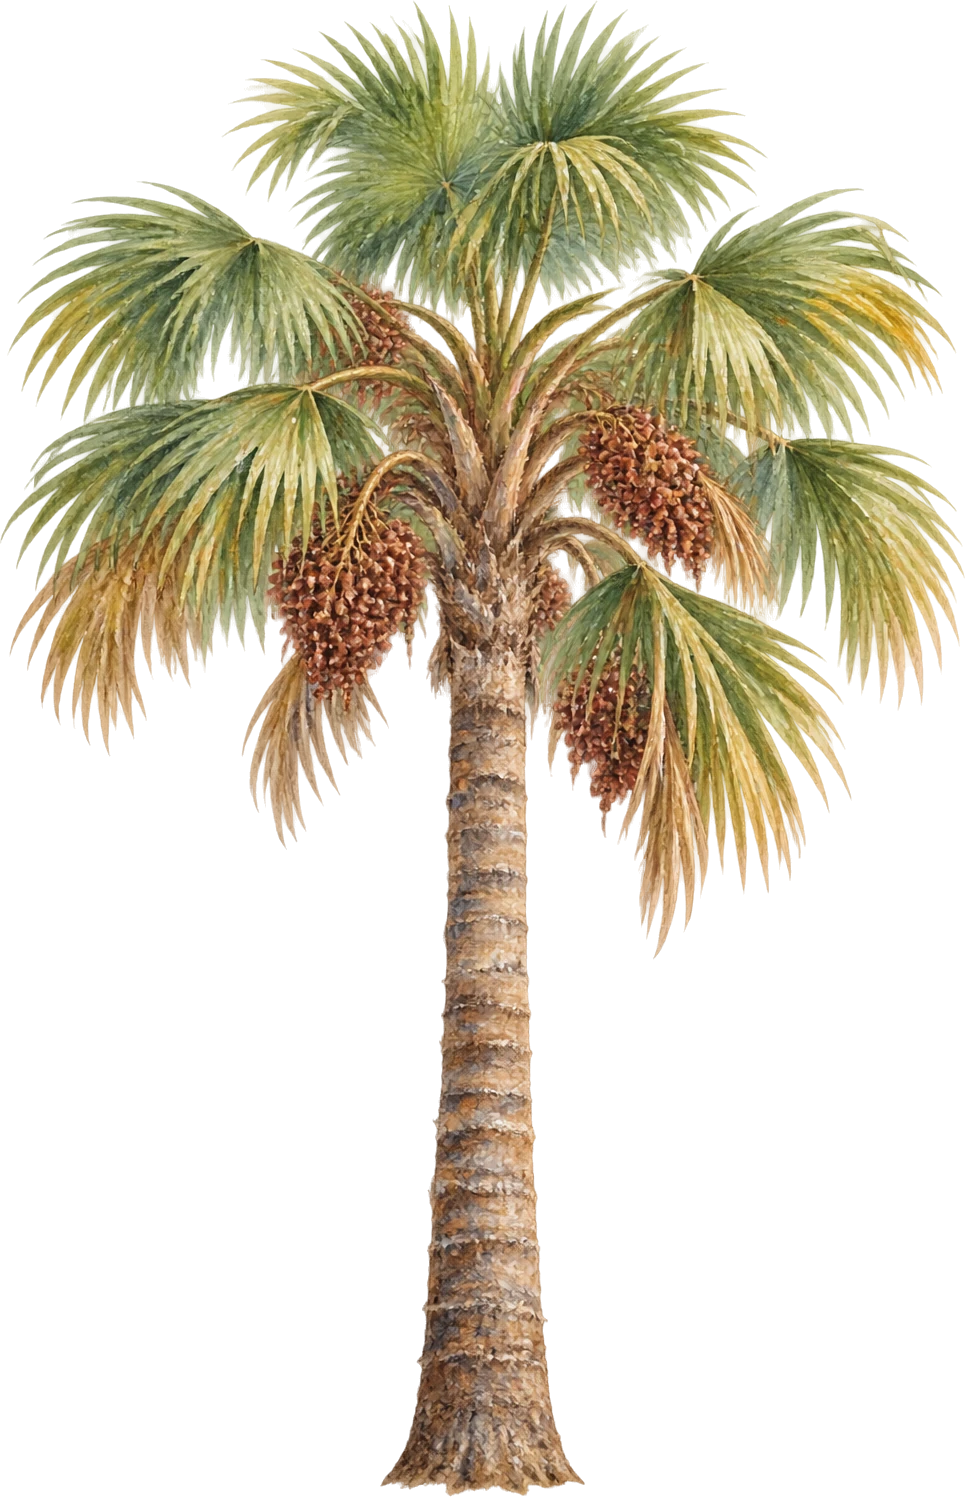
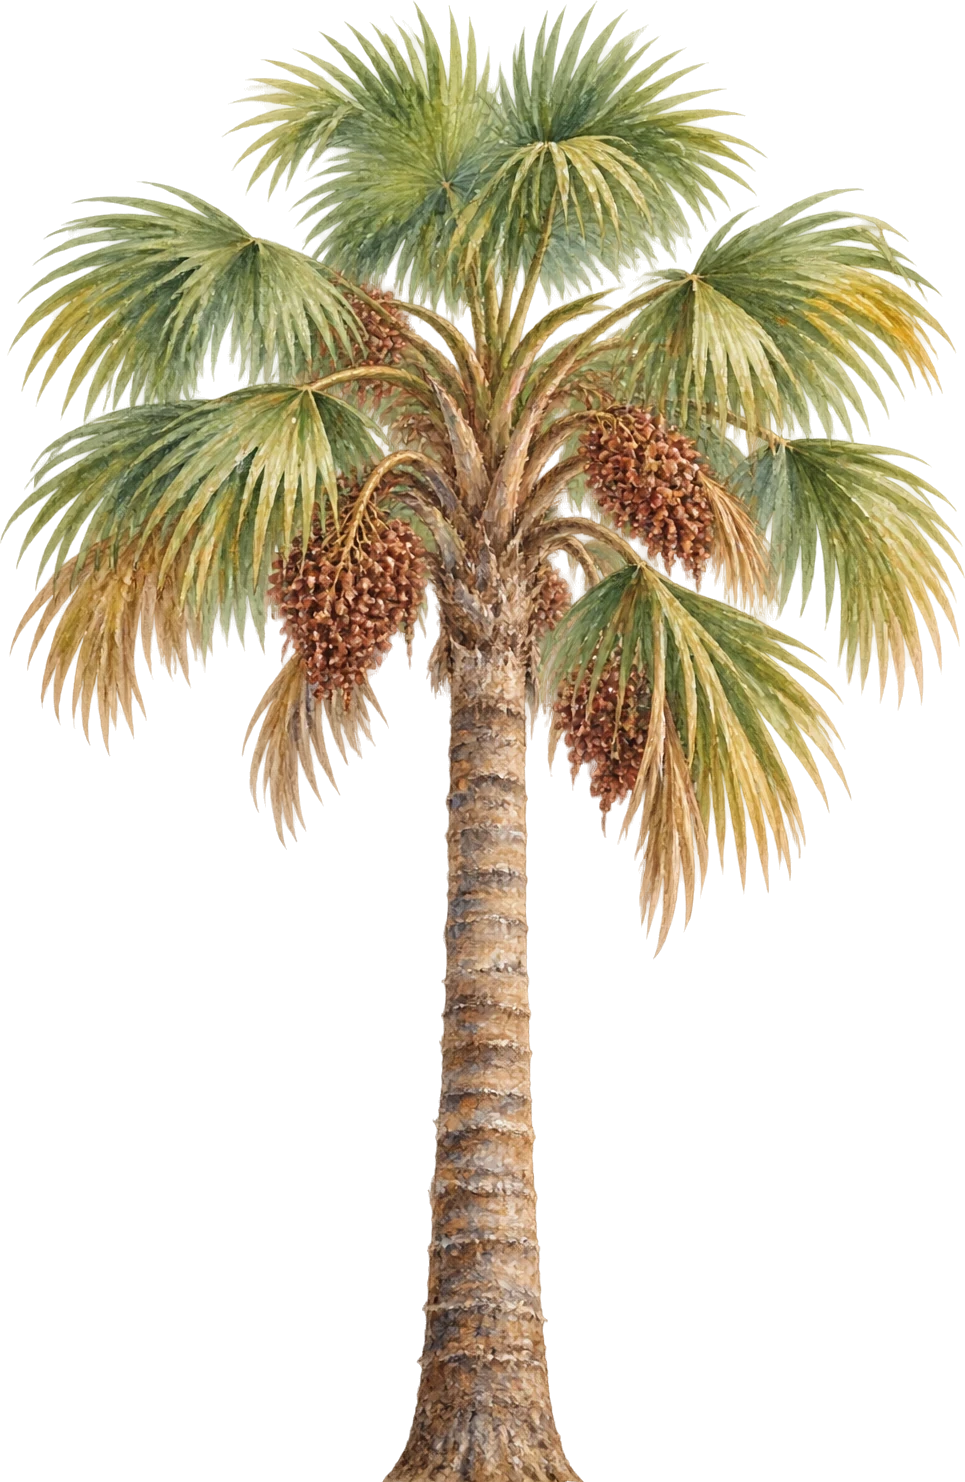
Passport: no hand-over nudge, painting to the gold rule, taller buriti
- The one-off measured nudge at the hand-over is gone: with the blot
  window laid out at its hand-over size it was no longer needed (same
  sub-pixel match without it), and measured at a bad moment it could
  shift the painting inside the centred blot.
- On the cover the painting reaches the inner gold rule at the sides and
  bottom, clipped to its rounded corners (rule measured on cover.webp);
  the rise shape grows to match, so the morph ends there.
- The buriti palm stands on the page's bottom edge at 90 % of its height,
  its trunk cut straight at the base.

Changed region(s): [[0.0, 0.031, 1.0, 1.0]]

diff --git a/src/components/sections/passport/BrasiliaPassport.tsx b/src/components/sections/passport/BrasiliaPassport.tsx
@@ -169,11 +169,6 @@ export function BrasiliaPassport({
   const riseRef = useRef<HTMLDivElement>(null)
   const blotRef = useRef<HTMLDivElement>(null)
   const paintRef = useRef<HTMLDivElement>(null)
-  const swapFix = useRef({ x: 0, y: 0, done: false })
-  // A new layout: measure the hand-over again.
-  useEffect(() => {
-    swapFix.current = { x: 0, y: 0, done: false }
-  }, [g])
   const baseRef = useRef<HTMLDivElement>(null)
   const insideRef = useRef<HTMLDivElement>(null)
   const chromeRef = useRef<HTMLDivElement>(null)
@@ -264,31 +259,7 @@ export function BrasiliaPassport({
         // The blot window: a static mask; only its scale changes.
         setMask(blotRef.current, vs.blotMasked ? MASK.blot.image : 'none', true)
         if (blotRef.current) blotRef.current.style.transform = vs.window
-        const paint = paintRef.current
-        if (paint) {
-          // Hand-over: measured once, the copy is nudged onto the stage's
-          // painting to the pixel (layout rounding differs between the two
-          // trees); the nudge fades out as the painting shrinks.
-          const fix = swapFix.current
-          if (!fix.done && v >= PHASE.swap - 2) {
-            const stage = document.querySelector<HTMLElement>(`[data-cerrado-paint]`)
-            const img = paint.querySelector('img')
-            if (stage && img) {
-              paint.style.transform = vs.paint
-              const a = stage.getBoundingClientRect()
-              const b = img.getBoundingClientRect()
-              fix.x = a.left - b.left
-              fix.y = a.top - b.top
-              fix.done = true
-            }
-          }
-          const k = 1 - vs.shrink
-          paint.style.transform =
-            k > 0 && (fix.x || fix.y)
-              ? // In the window's (scaled) space: divide by its scale.
-                `translate(${((fix.x * k) / vs.scale).toFixed(4)}px, ${((fix.y * k) / vs.scale).toFixed(4)}px) ${vs.paint}`
-              : vs.paint
-        }
+        if (paintRef.current) paintRef.current.style.transform = vs.paint
         // The rise shape, during the bleed.
         const rise = riseRef.current
         setMask(rise, vs.riseMasked ? MASK.rise.image : 'none', false)

diff --git a/src/components/sections/passport/geometry.ts b/src/components/sections/passport/geometry.ts
@@ -196,11 +196,11 @@ export function passportGeometry(vw: number, vh: number): PassportGeometry {
   // The rise shape reaches a little past the frame at the sides and bottom
   // (the mask's own edge pixels are soft): clipped to the frame's rounded
   // rect, the paint meets the gold rule exactly.
-  const riseH = coverBox.h * 0.555
+  const riseH = coverBox.h * 0.592
   const rise = {
-    x: inner.x - inner.w * 0.03,
-    y: inner.y + inner.h + riseH * 0.03 - riseH,
-    w: inner.w * 1.06,
+    x: inner.x - inner.w * 0.07,
+    y: inner.y + inner.h + riseH * 0.09 - riseH,
+    w: inner.w * 1.14,
     h: riseH,
   }
   // Start of the bleed: a rise box whose opaque part (below its soft top)

diff --git a/src/components/sections/passport/Pages.tsx b/src/components/sections/passport/Pages.tsx
@@ -464,13 +464,15 @@ function BlankPage() {
 /** A buriti palm standing on the page, nothing else. */
 function BuritiPage() {
   return (
-    <div className="flex h-full items-end justify-center px-[10%] pt-[10%] pb-[9%]">
+    // Growing from the bottom: the trunk (cut straight at its base) stands
+    // on the page's lower edge.
+    <div className="flex h-full items-end justify-center px-[8%]">
       <img
         src={ASSETS.buriti}
         alt=""
         aria-hidden
         draggable={false}
-        className="h-[76%] w-auto max-w-full object-contain select-none"
+        className="h-[90%] w-auto max-w-full object-contain object-bottom select-none"
       />
     </div>
   )

diff --git a/src/components/sections/passport/assets.ts b/src/components/sections/passport/assets.ts
@@ -82,7 +82,7 @@ export const MASK = {
  * cover.webp's inner gold rule, as fractions of the cover: its side, top and
  * bottom insets, and its corner radius. The painting lives inside it.
  */
-export const COVER_RULE = { side: 0.04, top: 0.028, bottom: 0.028, radius: 0.03 }
+export const COVER_RULE = { side: 0.029, top: 0.028, bottom: 0.022, radius: 0.022 }
 
 /**
  * The watercolor cathedral, standing on the far hills at the right of the

diff --git a/src/components/sections/HeroBigDay.tsx b/src/components/sections/HeroBigDay.tsx
@@ -394,7 +394,6 @@ export function HeroBigDay({ holder }: { holder?: string }) {
               <motion.div
                 aria-hidden
                 className="pointer-events-none absolute z-10 overflow-hidden"
-                data-cerrado-paint
                 style={{ ...artBox, y: cerradoY, opacity: 0.9 }}
               >
                 <CerradoPaint
